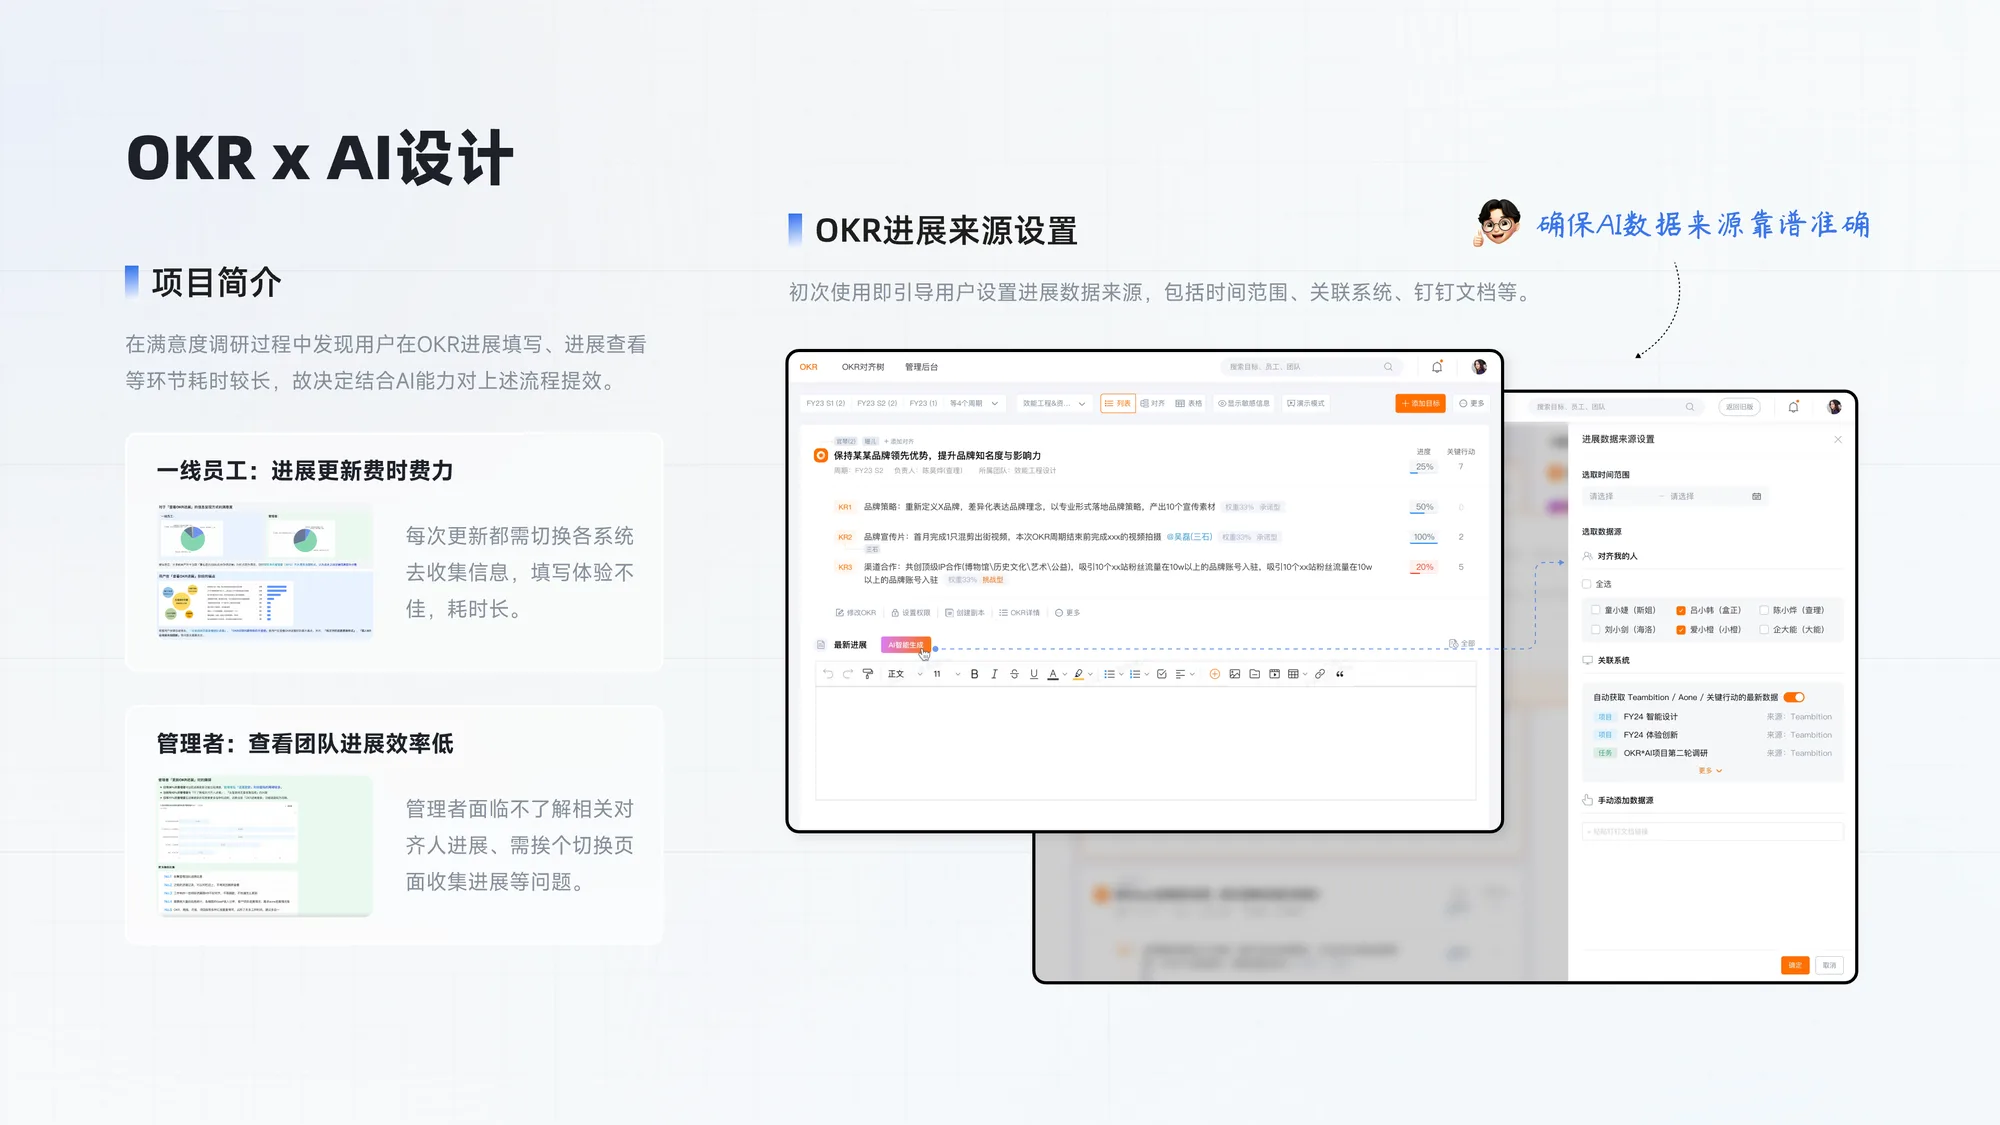
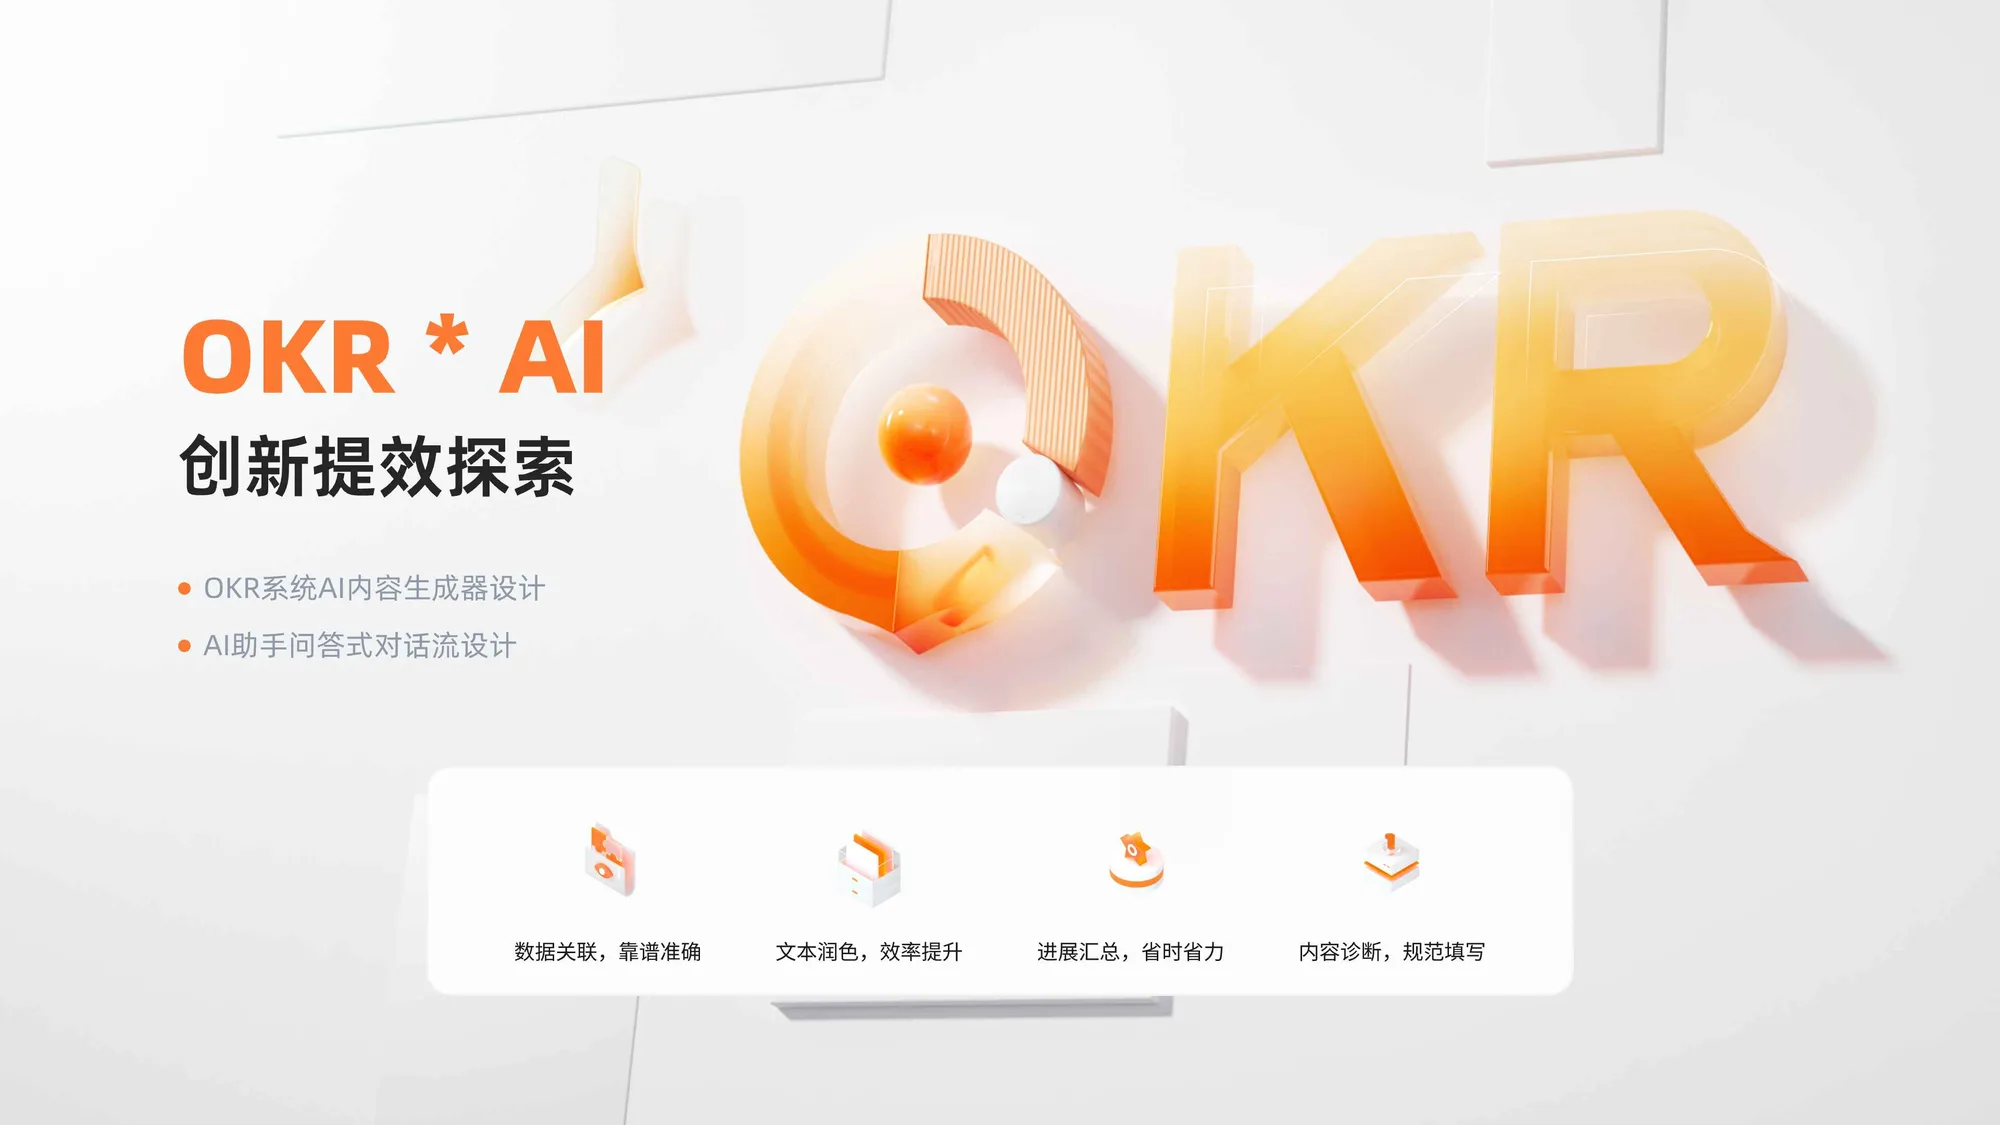
feat: replace OKR×AI提效工具 module with 6 new images (50-56)

diff --git a/portfolio-deploy-v2/index.html b/portfolio-deploy-v2/index.html
@@ -984,7 +984,7 @@
     <img id="pd-img-2-10" src="assets/images/pd-img-2-10.webp" style="display:none" data-src="assets/images/pd-img-2-10.webp" data-uploaded="1"><img id="pd-img-2-11" src="assets/images/pd-img-2-11.webp" style="display:none" data-src="assets/images/pd-img-2-11.webp" data-uploaded="1"><img id="pd-img-2-12" src="assets/images/pd-img-2-12.webp" style="display:none" data-src="assets/images/pd-img-2-12.webp" data-uploaded="1"><img id="pd-img-2-13" src="" style="display:none"><img id="pd-img-2-14" src="" style="display:none">
     <img id="pd-img-2-15" src="" style="display:none"><img id="pd-img-2-16" src="" style="display:none"><img id="pd-img-2-17" src="" style="display:none"><img id="pd-img-2-18" src="" style="display:none"><img id="pd-img-2-19" src="" style="display:none">
     <!-- AI创新子tab 0b: OKR×AI提效工具 -->
-    <img id="pd-img-0b-0"src="assets/images/pd-img-0b-0.webp" style="display:none" data-uploaded="1"><img id="pd-img-0b-1"src="assets/images/pd-img-0b-1.webp" style="display:none" data-uploaded="1"><img id="pd-img-0b-2"src="assets/images/pd-img-0b-2.webp" style="display:none" data-uploaded="1"><img id="pd-img-0b-3" src="" style="display:none"><img id="pd-img-0b-4" src="" style="display:none"><img id="pd-img-0b-5" src="" style="display:none"><img id="pd-img-0b-6" src="" style="display:none"><img id="pd-img-0b-7" src="" style="display:none"><img id="pd-img-0b-8" src="" style="display:none"><img id="pd-img-0b-9" src="" style="display:none">
+    <img id="pd-img-0b-0"src="assets/images/pd-img-0b-0.webp" style="display:none" data-uploaded="1"><img id="pd-img-0b-1"src="assets/images/pd-img-0b-1.webp" style="display:none" data-uploaded="1"><img id="pd-img-0b-2"src="assets/images/pd-img-0b-2.webp" style="display:none" data-uploaded="1"><img id="pd-img-0b-3" src="assets/images/pd-img-0b-3.webp" style="display:none" data-uploaded="1"><img id="pd-img-0b-4" src="assets/images/pd-img-0b-4.webp" style="display:none" data-uploaded="1"><img id="pd-img-0b-5" src="assets/images/pd-img-0b-5.webp" style="display:none" data-uploaded="1"><img id="pd-img-0b-6" src="" style="display:none"><img id="pd-img-0b-7" src="" style="display:none"><img id="pd-img-0b-8" src="" style="display:none"><img id="pd-img-0b-9" src="" style="display:none">
     <!-- AI创新子tab 0c: AI设计工作流探索 -->
     <img id="pd-img-0c-0"src="assets/images/pd-img-0c-0.webp" style="display:none" data-uploaded="1"><img id="pd-img-0c-1"src="assets/images/pd-img-0c-1.webp" style="display:none" data-uploaded="1"><img id="pd-img-0c-2"src="assets/images/pd-img-0c-2.webp" style="display:none" data-uploaded="1"><img id="pd-img-0c-3"src="assets/images/pd-img-0c-3.webp" style="display:none" data-uploaded="1"><img id="pd-img-0c-4"src="assets/images/pd-img-0c-4.webp" style="display:none" data-uploaded="1"><img id="pd-img-0c-5" src="assets/images/pd-img-0c-5.webp" style="display:none" data-uploaded="1"><img id="pd-img-0c-6" src="" style="display:none"><img id="pd-img-0c-7" src="" style="display:none"><img id="pd-img-0c-8" src="" style="display:none"><img id="pd-img-0c-9" src="" style="display:none">
   </div>